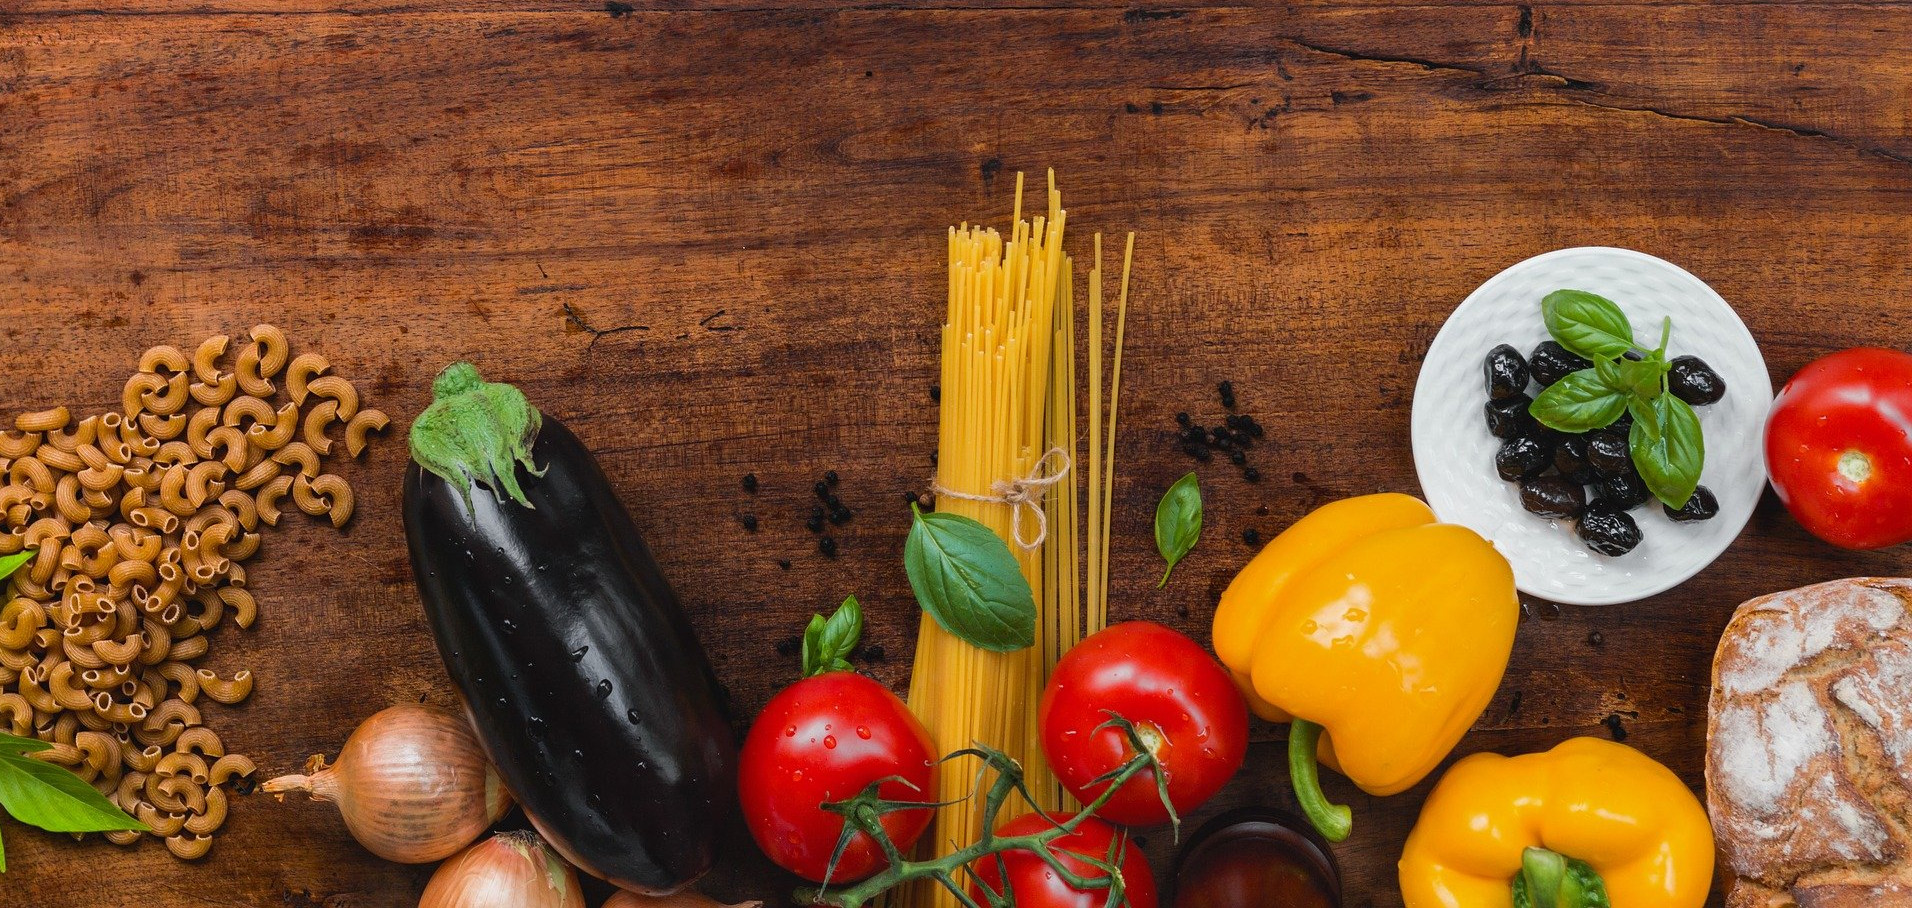
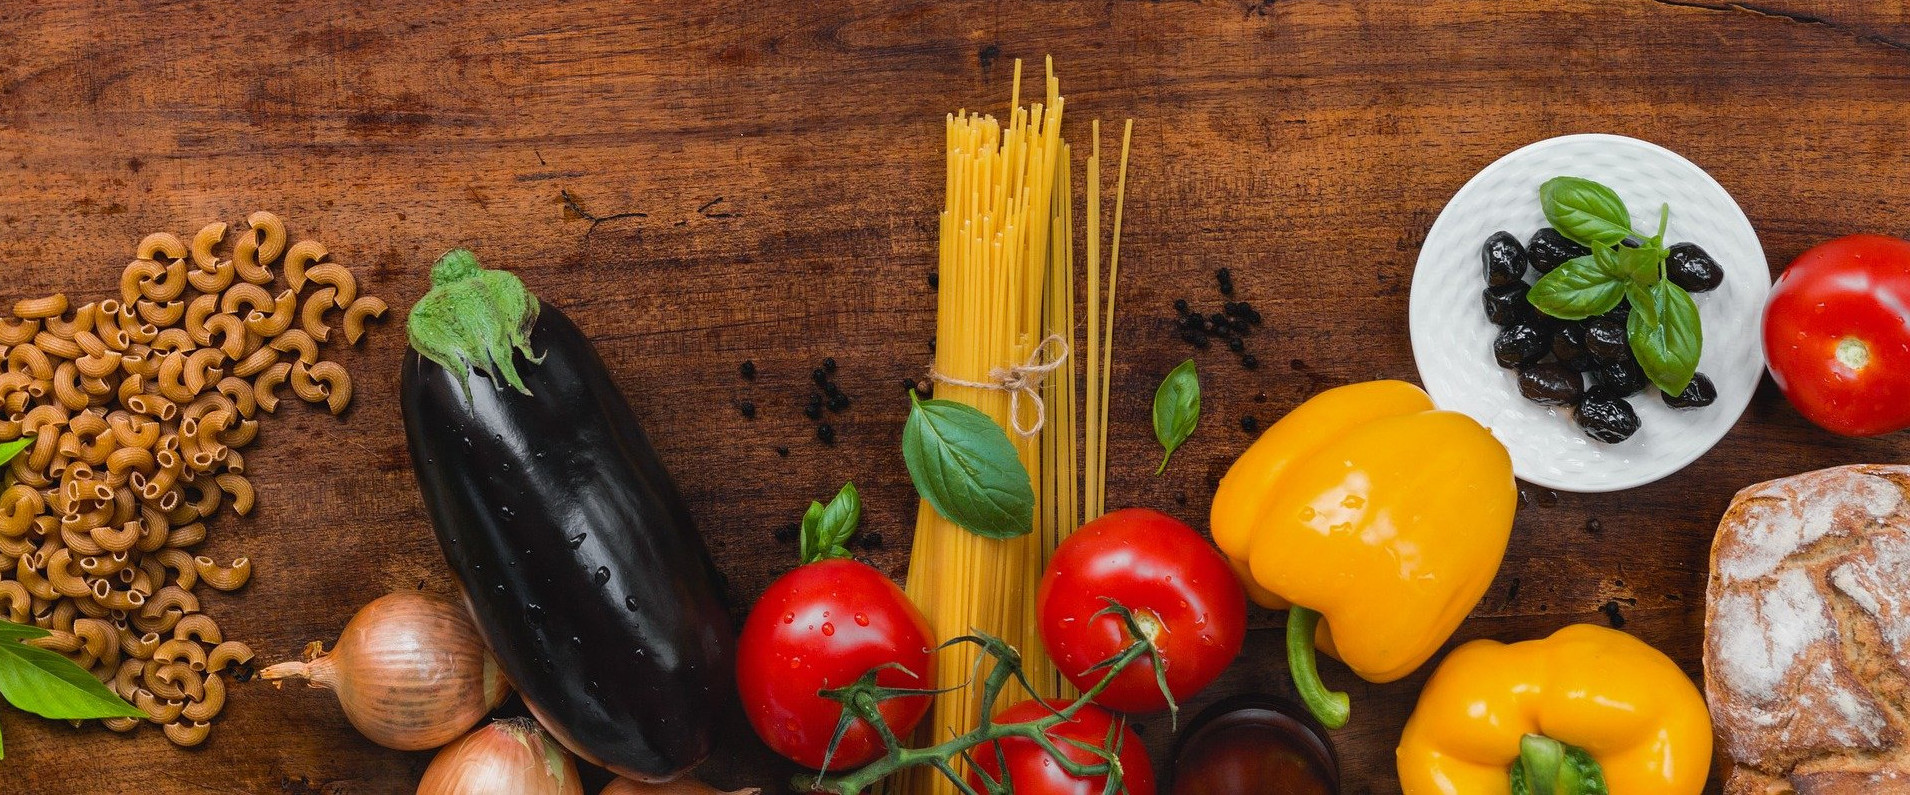
ajoutLogo

diff --git a/Front/acceuil.html b/Front/acceuil.html
@@ -11,9 +11,10 @@
 </head>
 <body>
   <div class="container-fluid">
-    <div class="header row justify-content-between" id="menu">
-      <div class="col-2" id="bouton"><span >logo</span></div>
-      <div class="col-4 row">
+    <div class="header row justify-content-between">
+      <div class="col-2"  id="menu"> <img src="img/logo.png" alt="logo"> </div>
+      <div class="col-6" id="menu"></div>
+      <div class="col-4 row"  id="menu">
         <span class="col-6" id = "bouton">Se connecter</span>
         <div class="dropdown col-6">
           <button class="btn btn-secondary dropdown-toggle" type="button" id="bouton" data-bs-toggle="dropdown" aria-expanded="false">
@@ -33,13 +34,13 @@
 
 <div class="container-fluid">
   <div class="main row justify-content-around">
-      <div class="col-4" id="choix">
+      <div class="col-3 choix">
         <span>Restaurants à proximité</span>
       </div>
-      <div class="col-4" id="choix">Commander</div>
-      <div class="col-4" id="choix">
-        <div class="">Devenir Livreur</div>
-        <div class="">Inscrire son restaurant</div>
+      <div class="col-3 choix">Commander</div>
+      <div class="col-3 choix">
+        <div id="droite">Devenir Livreur</div>
+        <div id="droite">Inscrire son restaurant</div>
   </div>
 </div>
 

diff --git a/Front/style_acceuil.css b/Front/style_acceuil.css
@@ -8,6 +8,14 @@
   color: white;
   background-image: url("img/bouffe1.jpg");
   background-size: 100%;
+  background-position: top;
+}
+
+#menu{
+height:100px;
+display: flex;
+align-items: center;
+border-bottom: solid white;
 }
 
 #bouton{
@@ -16,13 +24,14 @@
   align-items: center;
   border-radius: 15%;
   height : 50px;
-  border:solid lightgrey;
-  background-color: #00800000;
+  border:solid white;
+  background-color: #8e8b8a;
 }
 
-#menuLeft{
-  display: flex;
-  justify-content: space-around;
+
+
+#menu img{
+  height:50px;
 
 }
 
@@ -36,18 +45,29 @@
   align-items: center;
 }
 
-#choix{
+.choix{
   display: flex;
   justify-content: center;
   align-items: center;
-  flex-flow: column;
-  border-radius: 15%;
-  height : 50px;
+  flex-flow: column wrap;
+  border-radius: 5%;
+  height : 400px;
   border:solid lightgrey;
   background-color: green;
 }
+
+#droite{
+  display: flex;
+  align-items: center;
+  justify-content: center;
+  height: 45%;
+  width:100%;
+  border:solid lightgrey;
+  background-color: green;
+}
+
 .dropdown-menu{
-  background-color: #00800000;
+  background-color: #8e8b8a;
 }
 .dropdown-item{
   color: white;
